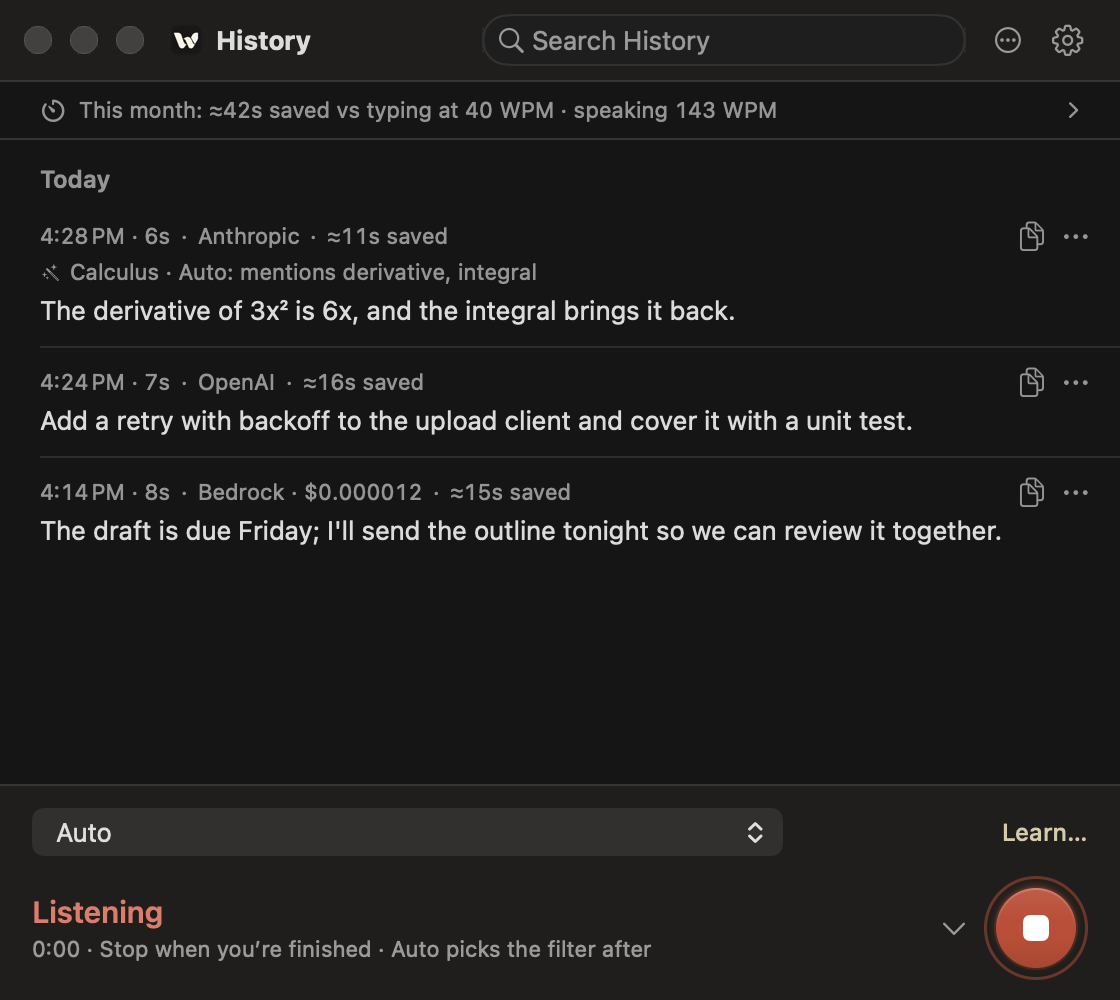
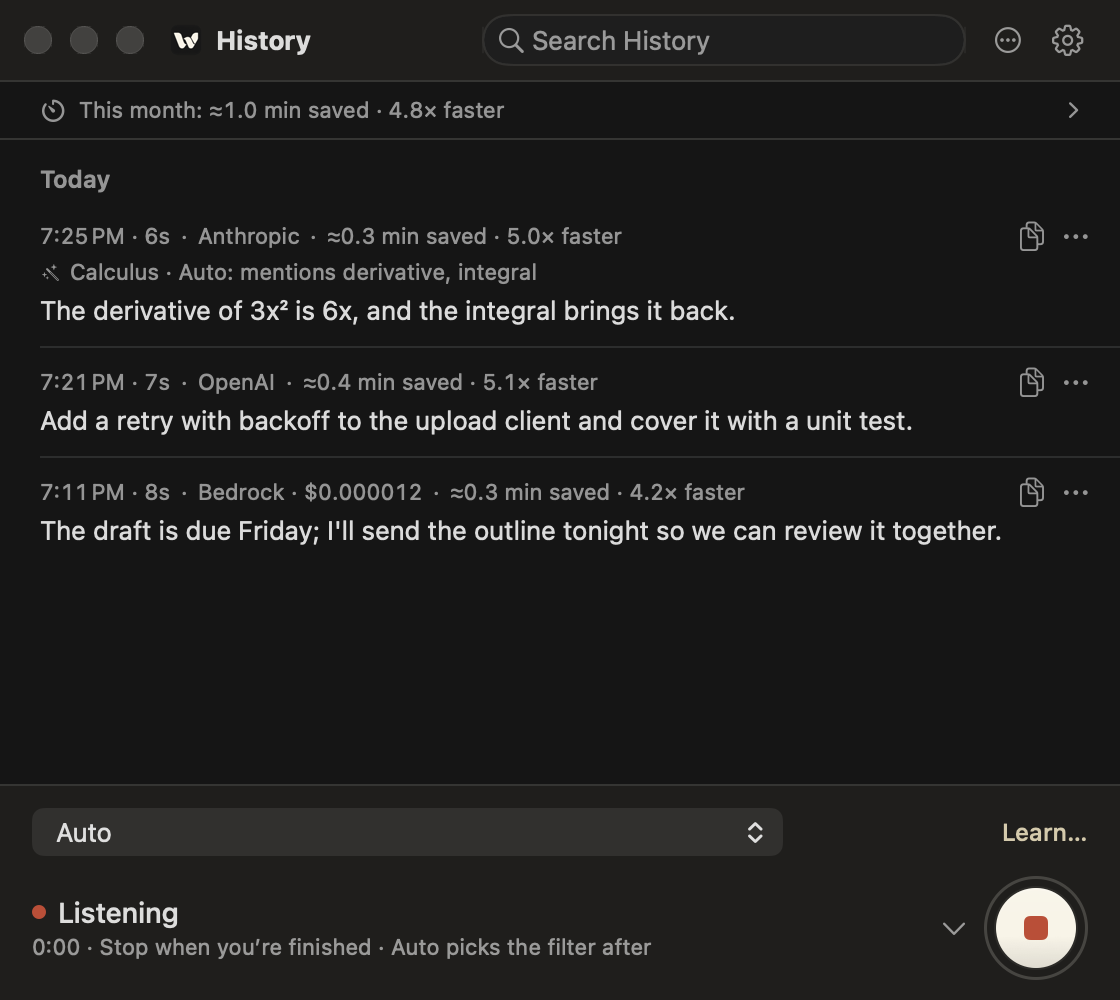
no-mistakes(review): adapt speaking tests to counted/exclusions; regen preview

diff --git a/OpenSuperWhisperTests/IntegratedPressureTests.swift b/OpenSuperWhisperTests/IntegratedPressureTests.swift
@@ -357,10 +357,10 @@ class ProviderPressureCase: XCTestCase {
         prefs.bedrockTimeoutSeconds = timeout
     }
 
-    func makeStore() throws -> RecordingStore {
+    func makeStore(detector: any SpeechDetecting = SileroSpeechDetector.shared) throws -> RecordingStore {
         try RecordingStore(
             database: DatabaseQueue(), recordingsDirectory: Recording.recordingsDirectory,
-            cancelQueuedRecording: { _ in }, stopPlayback: { _ in }
+            cancelQueuedRecording: { _ in }, stopPlayback: { _ in }, speechDetector: detector
         )
     }
 
@@ -545,7 +545,10 @@ final class UpgradeChainPressureTests: XCTestCase {
                 try db.execute(sql: "ALTER TABLE dictation_sources DROP COLUMN filterReason")
                 try db.execute(sql: "ALTER TABLE dictation_sources DROP COLUMN captureOrigin")
                 try db.execute(sql: "ALTER TABLE dictation_sources DROP COLUMN processingSeconds")
-                try db.execute(sql: "DELETE FROM grdb_migrations WHERE identifier IN ('v11_add_dictation_timing', 'v12_add_filter_choice')")
+                try db.execute(sql: "ALTER TABLE dictation_sources DROP COLUMN speechActivity")
+                try db.execute(sql: "ALTER TABLE dictation_sources DROP COLUMN activeSpeechSeconds")
+                try db.execute(sql: "ALTER TABLE dictation_sources DROP COLUMN speechDetector")
+                try db.execute(sql: "DELETE FROM grdb_migrations WHERE identifier IN ('v11_add_dictation_timing', 'v12_add_filter_choice', 'v13_add_speech_activity')")
             }
             let applied = try await database.read { try String.fetchAll($0, sql: "SELECT identifier FROM grdb_migrations ORDER BY rowid") }
             XCTAssertEqual(applied.last, "v10_add_filter_writes_digits", "The database is at v10")
@@ -612,15 +615,15 @@ final class UpgradeChainPressureTests: XCTestCase {
                 XCTAssertEqual(rows.first { $0.id == queuedID }?.transcription, "Check the replica lag first then deploy.")
             }
 
-            // Speaking versus typing: the live row is compared on recording
-            // time only, the rest are named exclusions, never measured savings.
+            // Speaking versus typing: nothing is counted because active speech
+            // was never measured on these pre-upgrade rows, and each is a named
+            // exclusion rather than a backfilled saving.
             let summary = try await store.speakingSummary(since: .distantPast)
-            XCTAssertTrue(summary.measured.isEmpty, "launch \(launch)")
-            XCTAssertEqual(summary.recordingOnly.count, 1, "launch \(launch)")
-            XCTAssertEqual(summary.recordingOnly.producedWords, 6)
+            XCTAssertTrue(summary.counted.isEmpty, "launch \(launch)")
             if launch == 1 {
                 // Counted after the queued row finished: it has no origin, so it is legacy.
-                XCTAssertEqual(summary.exclusions, [.legacy: 3, .meeting: 1])
+                // The live row predates measurement, so it is speechNotMeasured.
+                XCTAssertEqual(summary.exclusions, [.legacy: 3, .meeting: 1, .speechNotMeasured: 1])
                 settledSummary = summary
             } else {
                 XCTAssertEqual(summary, settledSummary, "The summary is identical on every launch")
@@ -673,7 +676,7 @@ final class NativeProviderJourneyTests: ProviderPressureCase {
                 guard let transcript = sent.transcript else { return .http(status: 400, body: "{}") }
                 return .http(status: 200, body: PressureReplies.body(provider, PressureReplies.cleaned(transcript), thinking: "PRIVATE-REASONING"))
             }
-            let store = try makeStore()
+            let store = try makeStore(detector: FixedSpeechDetector(intervals: [SpeechInterval(start: 0, end: 0.5)]))
             let engine = ScriptedSpeech()
             let queue = TranscriptionQueue(transcriptionService: TranscriptionService(engine: engine), recordingStore: store, cleanupPipeline: makePipeline())
             let url = try audio()
@@ -689,6 +692,12 @@ final class NativeProviderJourneyTests: ProviderPressureCase {
             let evidence = try await store.dictationSource(for: first.id)
             XCTAssertEqual(evidence?.emittedText, first.transcription)
             XCTAssertEqual(evidence?.recognizerText, spoken)
+            for _ in 0..<500 {
+                if try await store.dictationSource(for: first.id)?.speechActivity != .measuring { break }
+                try await Task.sleep(nanoseconds: 10_000_000)
+            }
+            let settledActivity = try await store.dictationSource(for: first.id)?.speechActivity
+            XCTAssertNotEqual(settledActivity, .measuring, "\(provider)")
             let figures = try await store.speakingSummary(since: .distantPast)
 
             // Regenerate with a saved filter picked in History.

diff --git a/OpenSuperWhisperTests/MainWindowLayoutTests.swift b/OpenSuperWhisperTests/MainWindowLayoutTests.swift
@@ -170,8 +170,8 @@ final class MainWindowLayoutTests: XCTestCase {
             let model = try XCTUnwrap(window.viewModel as? ScriptedRecordingViewModel)
             model.scriptedRecording = true
             model.updateRecorderState(isRecording: true, isConnecting: false)
-            window.settle { model.speakingSummary.measured.count == 3 }
-            XCTAssertEqual(model.speakingSummary.measured.count, 3, "Every row is a measured live dictation")
+            window.settle { model.speakingSummary.counted.count == 3 }
+            XCTAssertEqual(model.speakingSummary.counted.count, 3, "Every row is a measured live dictation")
             XCTAssertTrue(model.recordings.allSatisfy { $0.speaking?.sample != nil })
             save(try window.render(), name: "readme-listening-\(scheme.label)")
             window.assertHistoryStaysBelowTheToolbar()
@@ -843,11 +843,14 @@ enum MainWindowFixtures {
                 cleanupMode: row.mode, cleanupFilterName: row.filter?.name, cleanupFilterInstructions: row.filter?.instructions,
                 cleanupFilterWritesDigits: row.filter?.writesDigits ?? false, cleanupFilterReason: row.reason
             ))
-            sources.append(DictationSource(
+            var source = DictationSource(
                 recordingID: id, recordingStartedAt: now.addingTimeInterval(-row.ago - row.seconds),
                 recognizerText: row.spoken, emittedText: row.emitted, insertedText: row.emitted, disposition: .pasteSent,
-                filter: snapshot, filterReason: row.reason, cleanupSource: row.source, captureOrigin: .live, processingSeconds: 0.9
-            ))
+                filter: snapshot, filterReason: row.reason, cleanupSource: row.source, captureOrigin: .live, processingSeconds: 0.9,
+                speechActivity: .measured
+            )
+            source.activeSpeechSeconds = row.seconds * 0.75
+            sources.append(source)
         }
         return (recordings, sources)
     }
